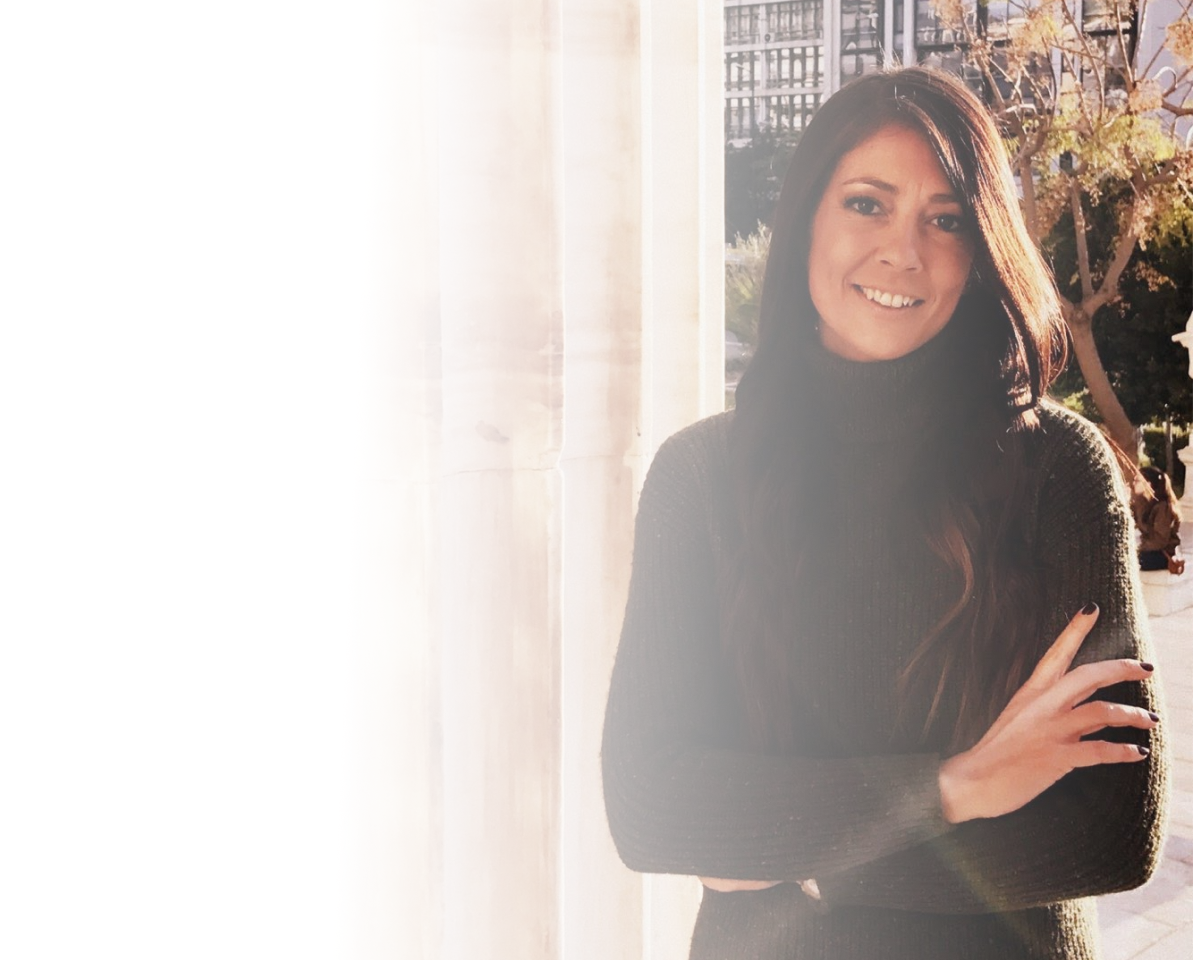
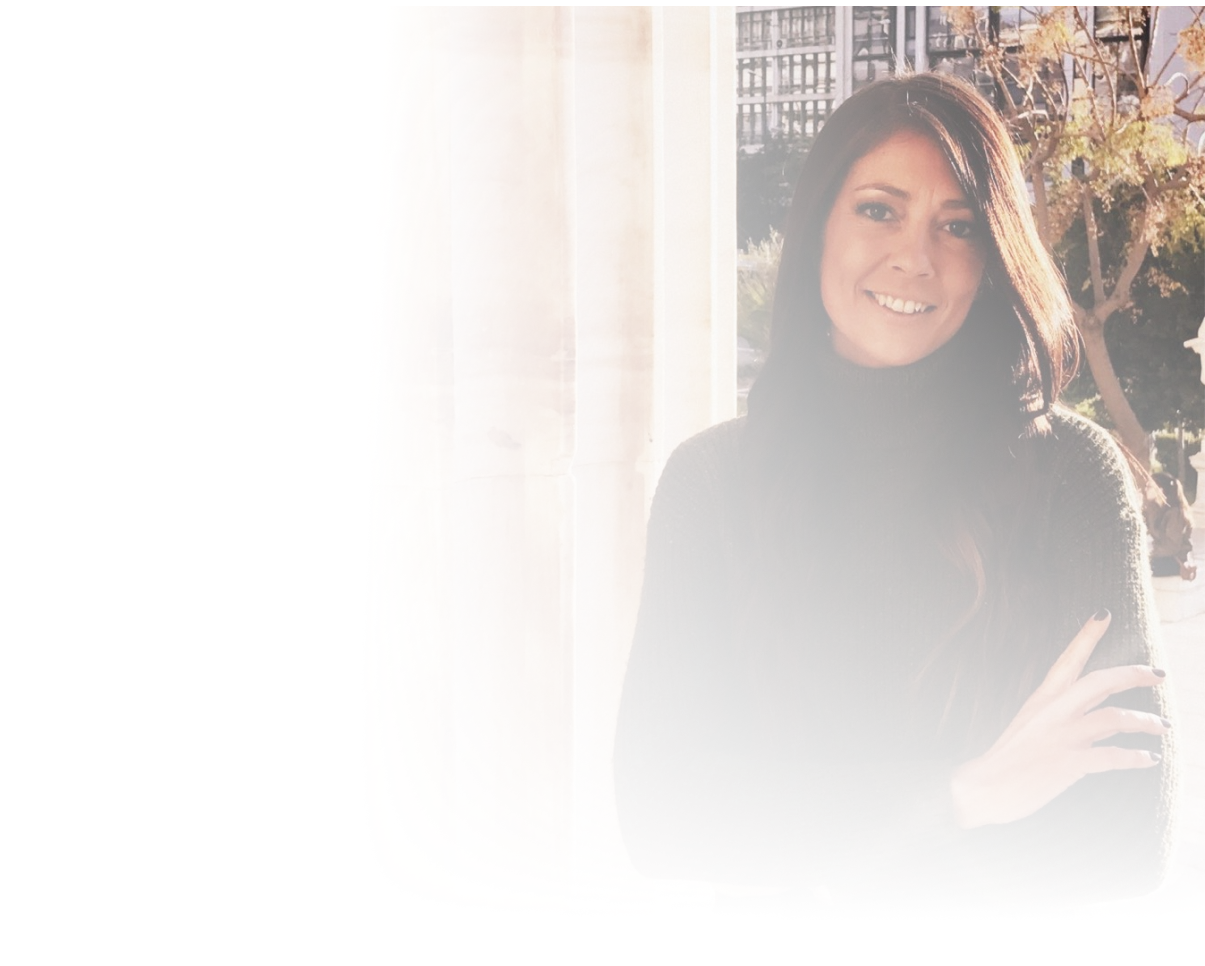
Done with home and the tutor pages

diff --git a/src/App.css b/src/App.css
@@ -142,27 +142,25 @@ nav{
   }
 
   .the-tutor{
-    background-image: url("./assets/the-tutor-background.png");
-    height: 92vh;
     background-position: top right;
-    background-repeat: no-repeat;
-    background-size: cover;
+    background-size: contain;
   }
 
   .the-tutor-text{
     width: 30%;
-    justify-content: flex-start;
+    justify-content: center;
     align-items: flex-start;
   }
 
   .the-tutor-title{
-    margin: 10% 0 10% 10%;
+    margin: 0 0 10% 10%;
     font-size: 28px;
   }
 
   .the-tutor-description{
     margin: 0 10% 0 10%;
     font-size: 14px;
+    width: 180%;
   }
 
   .nav-links{
